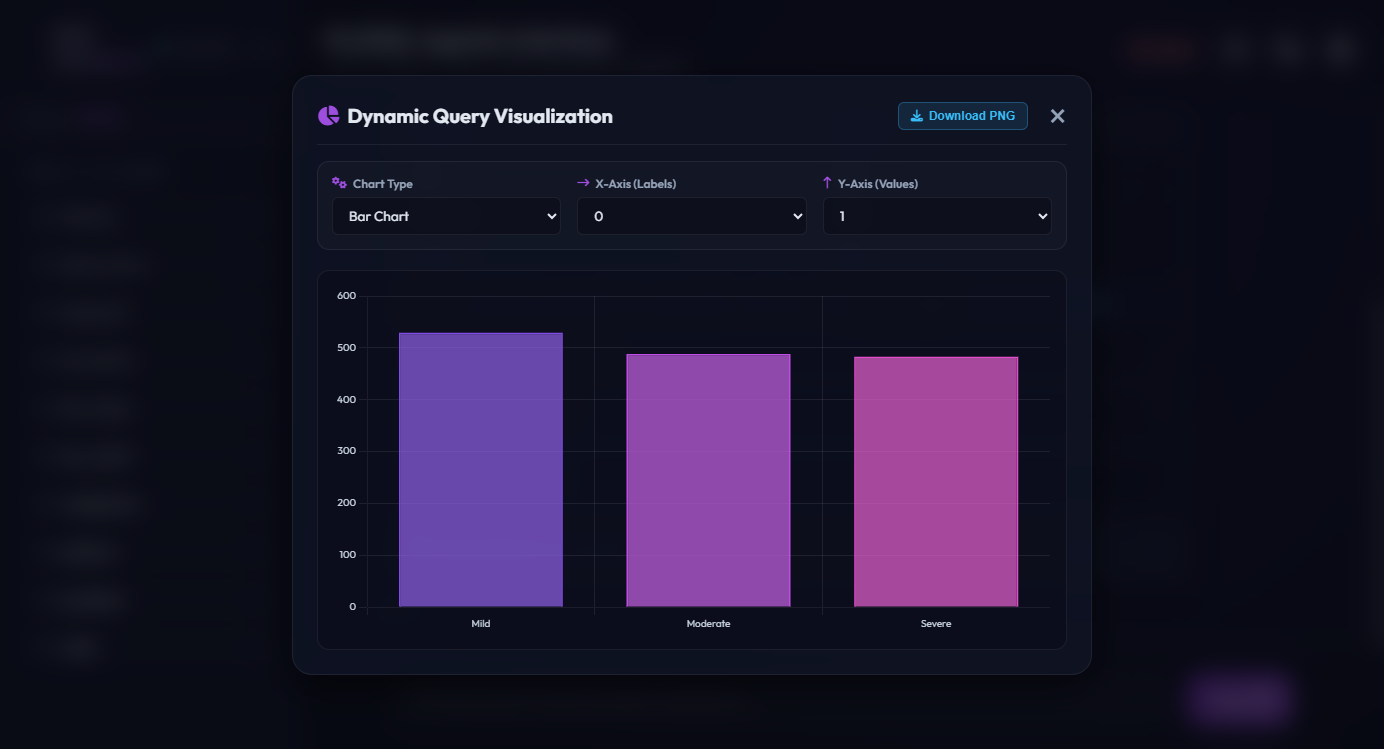
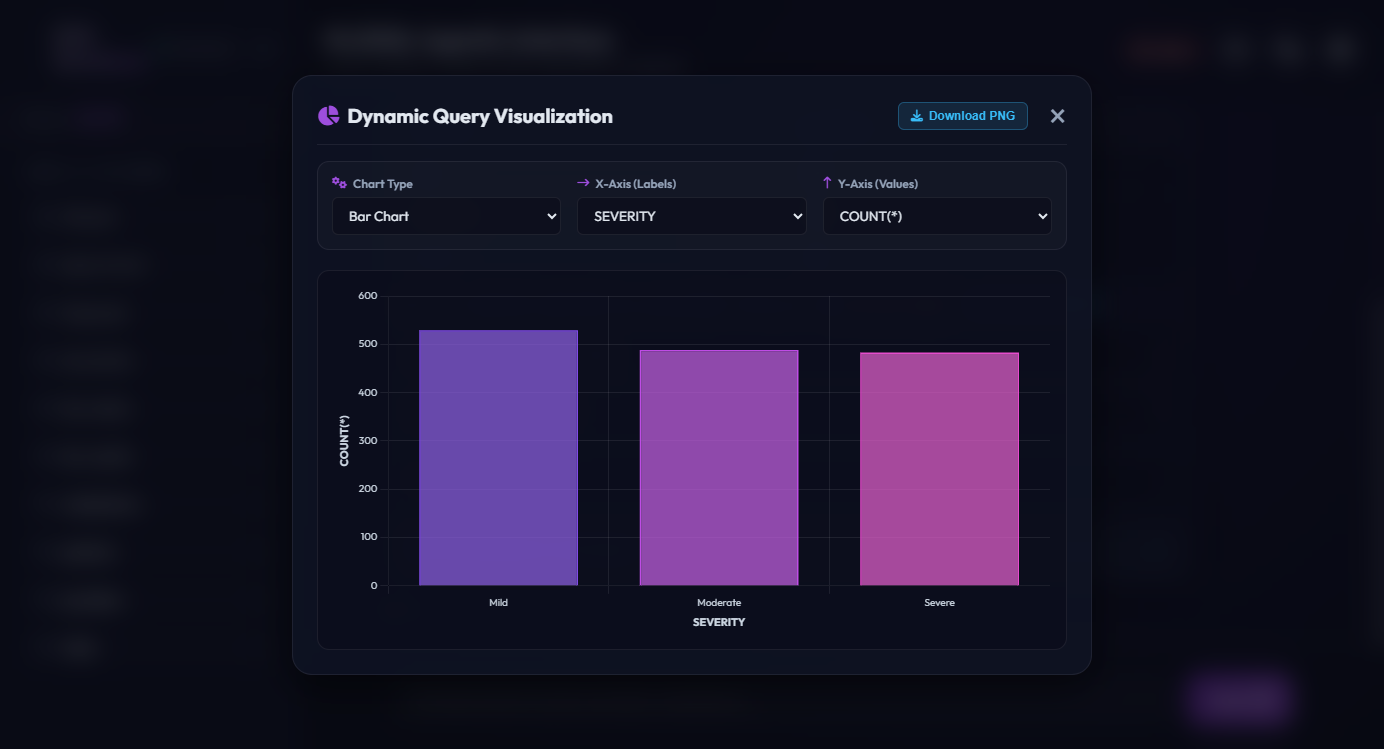
Resolve array index names to user-friendly column headers and add dynamic X/Y axis titles on the canvas

diff --git a/frontend/app.js b/frontend/app.js
@@ -520,7 +520,7 @@ function appendAssistantResponse(sqlQuery, queryResult, tokens, cached = false, 
                     }
                     ${cached ? `<span class="meta-item cache-badge"><i class="fa-solid fa-cloud-bolt"></i> Served from Cache</span>` : ''}
                     ${isChartable(queryResult) ? `
-                    <button class="visualize-results-btn" onclick="openChartModal(JSON.parse(decodeURIComponent('${encodeURIComponent(JSON.stringify(queryResult))}')), '${encodeURIComponent(questionText)}')">
+                    <button class="visualize-results-btn" onclick="openChartModal(JSON.parse(decodeURIComponent('${encodeURIComponent(JSON.stringify(queryResult))}')), '${encodeURIComponent(questionText)}', JSON.parse(decodeURIComponent('${encodeURIComponent(JSON.stringify(headers))}')))">
                         <i class="fa-solid fa-chart-line"></i> Visualize Results
                     </button>
                     ` : ''}
@@ -2339,7 +2339,7 @@ function isChartable(data) {
     return hasNumeric;
 }
 
-function openChartModal(data, encodedQuestion) {
+function openChartModal(data, encodedQuestion, headers = []) {
     const question = decodeURIComponent(encodedQuestion);
     currentChartData = data;
     
@@ -2357,10 +2357,13 @@ function openChartModal(data, encodedQuestion) {
     ySelect.innerHTML = "";
     
     keys.forEach(k => {
+        const colIndex = parseInt(k);
+        const colLabel = (Array.isArray(firstRow) && headers && headers[colIndex]) ? headers[colIndex] : k;
+        
         // Populate X-Axis options
         const xOpt = document.createElement("option");
         xOpt.value = k;
-        xOpt.textContent = k;
+        xOpt.textContent = colLabel;
         xSelect.appendChild(xOpt);
         
         // Populate Y-Axis options (only numeric/parseable keys)
@@ -2378,7 +2381,7 @@ function openChartModal(data, encodedQuestion) {
         if (isNum) {
             const yOpt = document.createElement("option");
             yOpt.value = k;
-            yOpt.textContent = k;
+            yOpt.textContent = colLabel;
             ySelect.appendChild(yOpt);
         }
     });
@@ -2439,11 +2442,16 @@ function renderQueryChart() {
     const canvas = document.getElementById("query-chart-canvas");
     if (!canvas) return;
     
-    const xKey = document.getElementById("chart-x-select").value;
-    const yKey = document.getElementById("chart-y-select").value;
+    const xSelect = document.getElementById("chart-x-select");
+    const ySelect = document.getElementById("chart-y-select");
+    const xKey = xSelect.value;
+    const yKey = ySelect.value;
     const type = document.getElementById("chart-type-select").value;
     
     if (!xKey || !yKey) return;
+    
+    const xLabelText = xSelect.options[xSelect.selectedIndex] ? xSelect.options[xSelect.selectedIndex].text : xKey;
+    const yLabelText = ySelect.options[ySelect.selectedIndex] ? ySelect.options[ySelect.selectedIndex].text : yKey;
     
     // Destroy existing instance to prevent overlapping rendering bugs
     if (currentChartInstance) {
@@ -2482,7 +2490,7 @@ function renderQueryChart() {
         data: {
             labels: labels,
             datasets: [{
-                label: yKey,
+                label: yLabelText,
                 data: values,
                 backgroundColor: type === 'line' ? 'rgba(123, 44, 191, 0.2)' : barBackgrounds,
                 borderColor: type === 'line' ? '#7b2cbf' : barBorders,
@@ -2532,6 +2540,16 @@ function renderQueryChart() {
                         family: 'Outfit, sans-serif',
                         size: 10
                     }
+                },
+                title: {
+                    display: true,
+                    text: xLabelText,
+                    color: textColor,
+                    font: {
+                        family: 'Outfit, sans-serif',
+                        size: 11,
+                        weight: 'bold'
+                    }
                 }
             },
             y: {
@@ -2543,6 +2561,16 @@ function renderQueryChart() {
                     font: {
                         family: 'Outfit, sans-serif',
                         size: 10
+                    }
+                },
+                title: {
+                    display: true,
+                    text: yLabelText,
+                    color: textColor,
+                    font: {
+                        family: 'Outfit, sans-serif',
+                        size: 11,
+                        weight: 'bold'
                     }
                 }
             }
